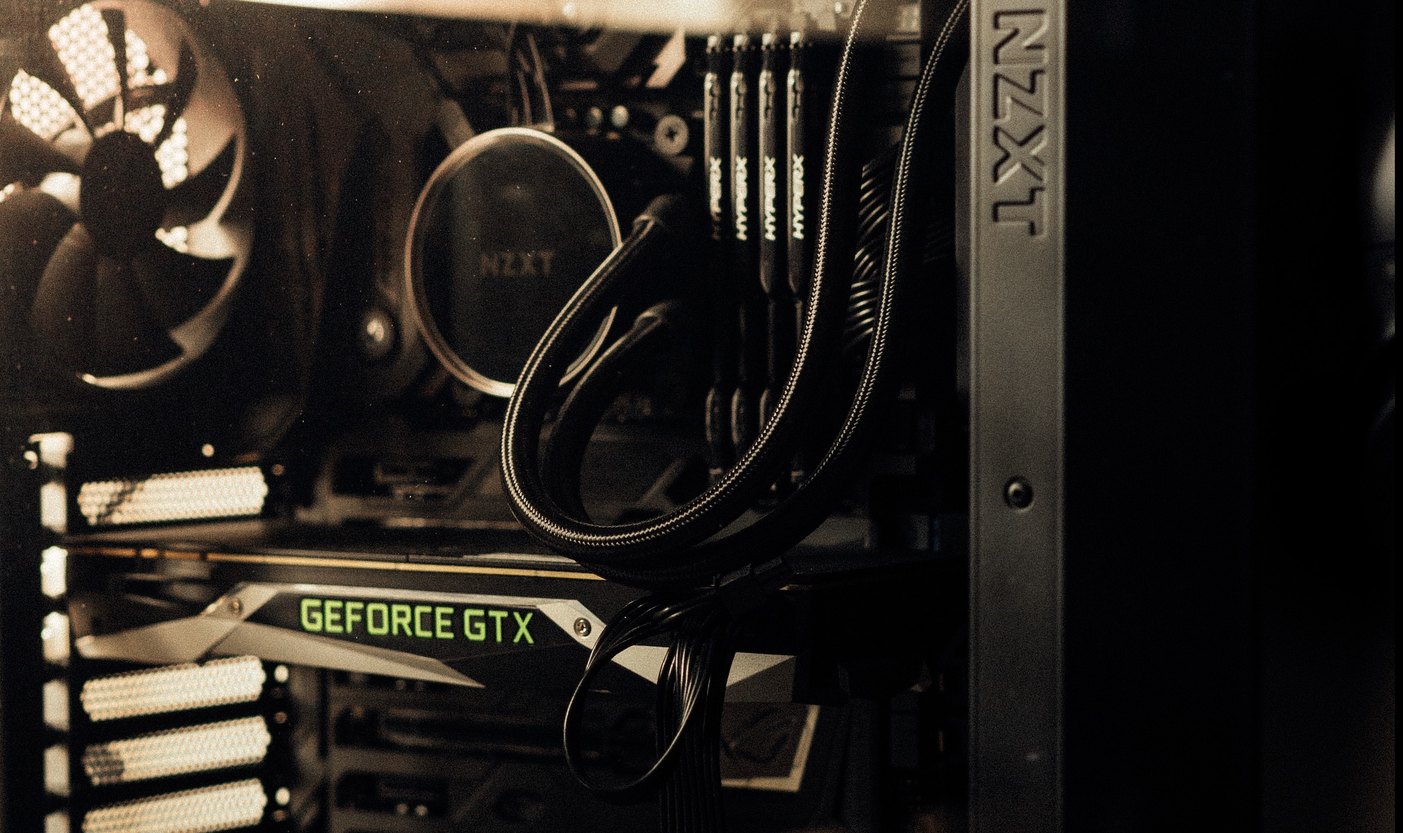
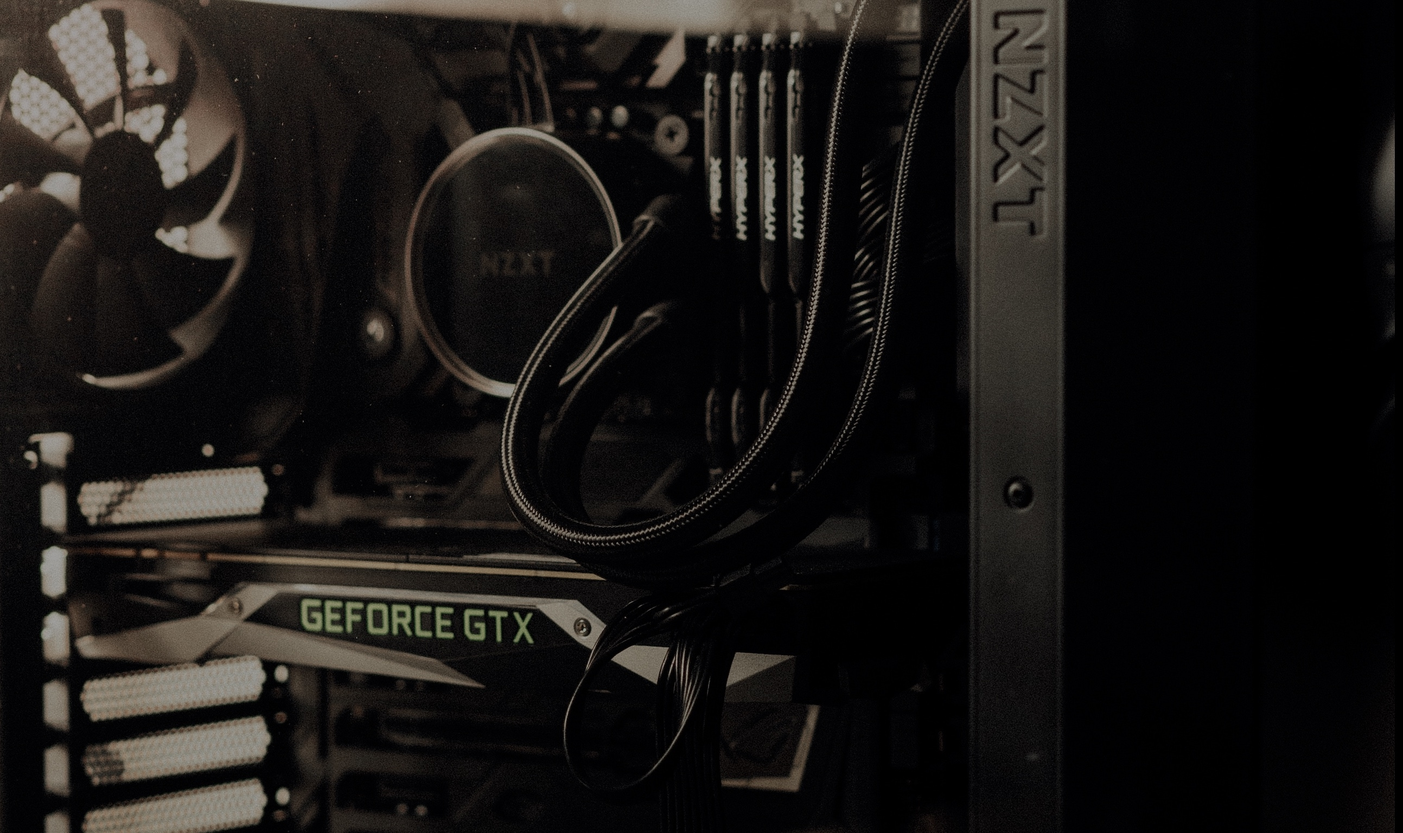
small amendments in main page

diff --git a/src/models/html/main.html b/src/models/html/main.html
@@ -21,6 +21,7 @@
         <div>
           <ul>
             <li><a href="index.html">Main Page</a></li>
+            <li><a href="#">Posts</a></li>
             <li><a href="#">About</a></li>
             <li><a href="contact.html">Contact</a></li>
             <li><a href="login.html">Login</a></li>
@@ -37,6 +38,11 @@
         </p>
     </div>
   </div>
+  </div>
+
+
+  <div class="main_text">
+    Lorem ipsum dolor sit amet, consectetur adipiscing elit. Mauris id justo auctor, condimentum massa ac, auctor arcu. Morbi consectetur mollis lorem, maximus gravida sem maximus ut. In consequat pretium quam ac hendrerit. Mauris consectetur lectus vel mauris elementum lobortis. Cras lorem quam, blandit nec enim eu, sodales venenatis urna. Integer commodo rutrum fringilla. Sed accumsan ac orci sit amet hendrerit. Sed condimentum, urna a iaculis posuere, tortor diam ullamcorper nunc, quis finibus erat lorem id metus.
   </div>
 
 </body>

diff --git a/src/models/css/main.css b/src/models/css/main.css
@@ -21,7 +21,9 @@ body {
   background-color: rgba(115, 115, 115, 0.616);
   background-repeat: no-repeat;
   background-size: auto;
-
+  display: flex;
+  justify-content: center;
+  flex-direction: column;
 }
 
 /* MENU STYLES */
@@ -131,7 +133,7 @@ body {
   align-items: center;
   justify-content: center;
   background-color: black;
-  opacity: 0.90;
+  opacity: 0.99;
 }
 
 .menu-wrap .menu > div {
@@ -277,4 +279,20 @@ body {
   color: #fff;
   font-family: 'Lato', sans-serif;
   font-weight: 500;
+}
+
+.main_text {
+  margin-top: 15%;
+  margin-left: 15%;
+  margin-right: 15%;
+  font-family: 'Lato';
+  font-style: normal;
+  font-weight: 300;
+  font-size: 24px;
+  line-height: 29px;
+  display: flex;
+  align-items: center;
+  text-align: center;
+
+  color: #FFFFFF;
 }
